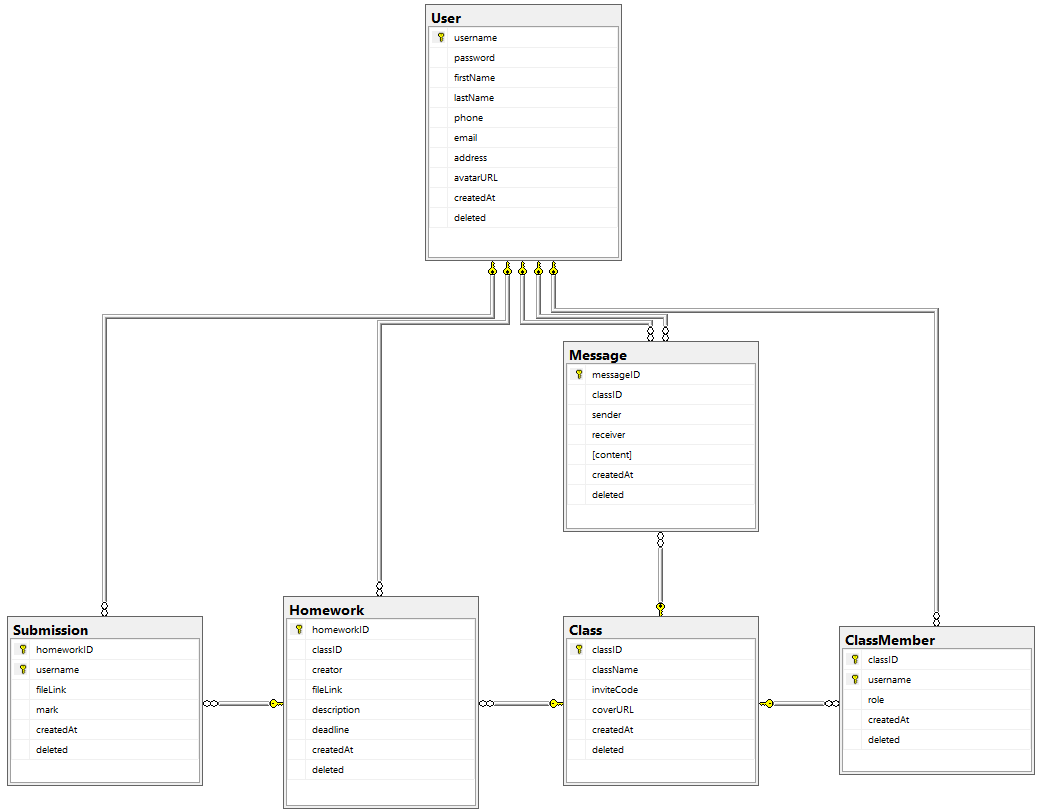
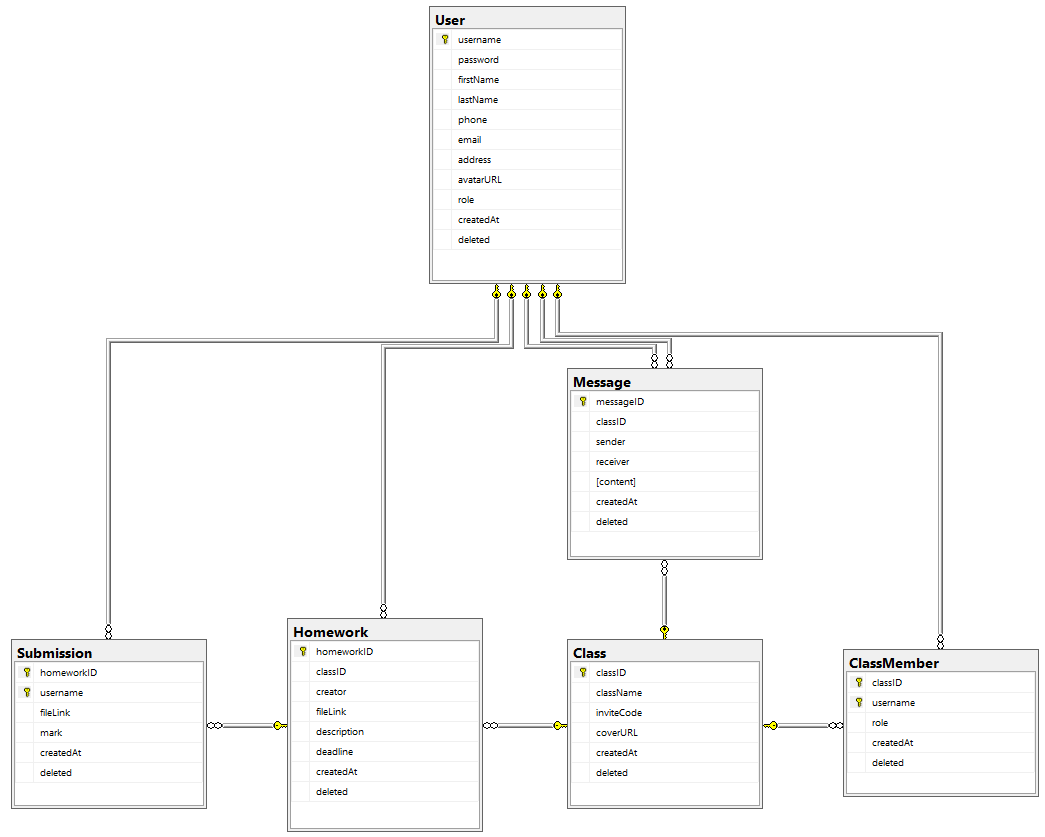
change db, add 'deleted' column to all table

Changed region(s): [[0.0, 0.0, 0.8923, 1.0], [0.8, 0.4002, 1.0, 0.9544]]

diff --git a/student-manager/src/main/java/com/studentmanager/model/Homework.java b/student-manager/src/main/java/com/studentmanager/model/Homework.java
@@ -2,11 +2,9 @@ package com.studentmanager.model;
 
 import java.time.LocalDateTime;
 
-import lombok.Builder;
 import lombok.Data;
 
 @Data
-@Builder
 public class Homework {
     private int homeworkID;
     private int classID;
@@ -15,4 +13,5 @@ public class Homework {
     private String decription;
     private LocalDateTime deadline;
     private LocalDateTime createdAt;
+    private boolean deleted;
 }

diff --git a/student-manager/src/main/java/com/studentmanager/model/Message.java b/student-manager/src/main/java/com/studentmanager/model/Message.java
@@ -2,11 +2,9 @@ package com.studentmanager.model;
 
 import java.time.LocalDateTime;
 
-import lombok.Builder;
 import lombok.Data;
 
 @Data
-@Builder
 public class Message {
     private int messageID;
     private int classID;
@@ -14,4 +12,5 @@ public class Message {
     private String receiver;
     private String content;
     private LocalDateTime createdAt;
+    private boolean deleted;
 }

diff --git a/student-manager/src/main/java/com/studentmanager/model/Class.java b/student-manager/src/main/java/com/studentmanager/model/Class.java
@@ -2,15 +2,14 @@ package com.studentmanager.model;
 
 import java.time.LocalDateTime;
 
-import lombok.Builder;
 import lombok.Data;
 
 @Data
-@Builder
 public class Class {
     private int classID;
     private String className;
     private String inviteCode;
     private String coverURL;
     private LocalDateTime createdAt;
+    private boolean deleted;
 }

diff --git a/student-manager/src/main/java/com/studentmanager/model/Submission.java b/student-manager/src/main/java/com/studentmanager/model/Submission.java
@@ -2,15 +2,14 @@ package com.studentmanager.model;
 
 import java.time.LocalDateTime;
 
-import lombok.Builder;
 import lombok.Data;
 
 @Data
-@Builder
 public class Submission {
     private int homeworkID;
     private String username;
     private String fileLink;
     private int mark;
     private LocalDateTime createdAt;
+    private boolean deleted;
 }

diff --git a/student-manager/src/main/java/com/studentmanager/model/ClassMember.java b/student-manager/src/main/java/com/studentmanager/model/ClassMember.java
@@ -2,14 +2,13 @@ package com.studentmanager.model;
 
 import java.time.LocalDateTime;
 
-import lombok.Builder;
 import lombok.Data;
 
 @Data
-@Builder
 public class ClassMember {
     private int classID;
     private String username;
     private String role;
     private LocalDateTime createdAt;
+    private boolean deleted;
 }

diff --git a/student-manager/src/main/java/com/studentmanager/model/User.java b/student-manager/src/main/java/com/studentmanager/model/User.java
@@ -14,6 +14,7 @@ public class User {
     private String email;
     private String address;
     private String avatarURL;
+    private String role;
     private LocalDateTime createdAt;
     private boolean deleted;
 }
